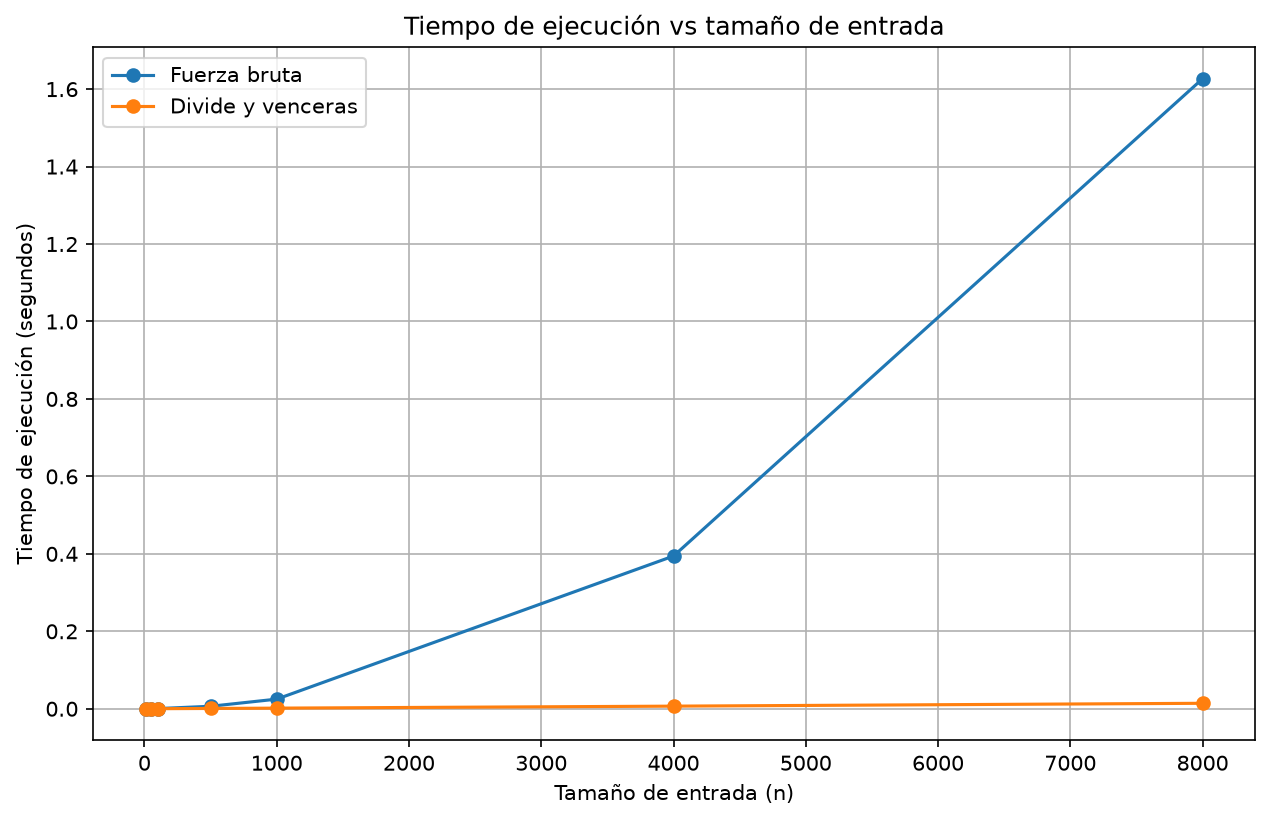
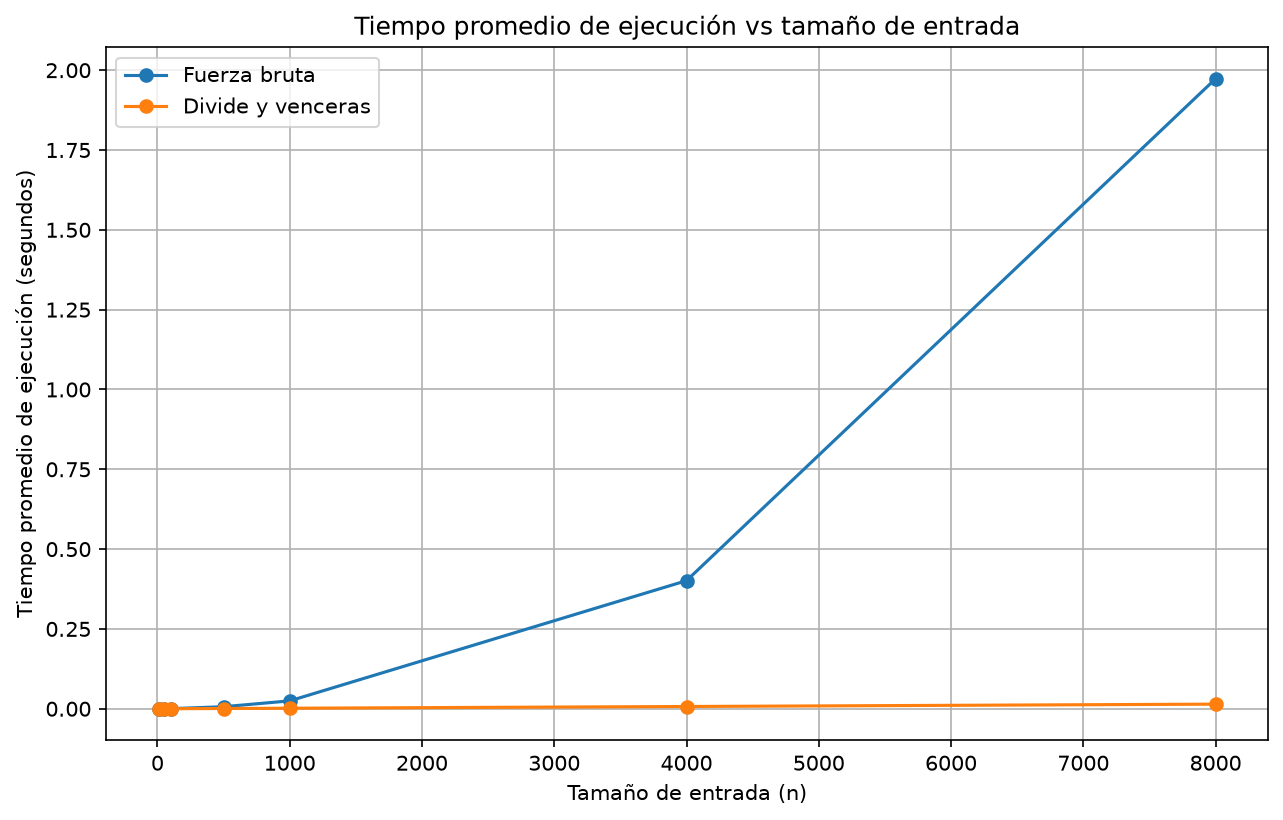
Mejora mediciones y documentacion del laboratorio 2

diff --git a/lab2-divide-y-vencer/medicion.py b/lab2-divide-y-vencer/medicion.py
@@ -1,5 +1,7 @@
 import random
 import time
+from collections.abc import Callable
+from typing import Any
 
 import matplotlib.pyplot as plt
 
@@ -8,14 +10,36 @@ from subarreglo import subarreglo_fuerza_bruta, subarreglo_maximo
 
 TAMANOS = [10, 50, 100, 500, 1000, 4000, 8000]
 SEMILLA = 42
+REPETICIONES = 5
+Resultado = tuple[int, int, float]
 
 
-def generar_datos(n: int) -> list[int]:
-    generador = random.Random(SEMILLA + n)
+def generar_datos(n: int, generador: random.Random) -> list[int]:
+    """Genera una lista de valores aleatorios para las mediciones.
+
+    Args:
+        n: Cantidad de elementos que tendrá la lista.
+        generador: Generador aleatorio inicializado con una semilla fija.
+
+    Returns:
+        Una lista de enteros entre -100 y 100.
+    """
     return [generador.randint(-100, 100) for _ in range(n)]
 
 
-def medir_tiempo(funcion, *args) -> tuple[tuple[int, int, float], float]:
+def medir_tiempo(
+    funcion: Callable[..., Resultado],
+    *args: Any
+) -> tuple[Resultado, float]:
+    """Mide el tiempo de una ejecución de un algoritmo.
+
+    Args:
+        funcion: Algoritmo que se va a medir.
+        *args: Argumentos que recibe el algoritmo.
+
+    Returns:
+        El resultado del algoritmo y el tiempo de ejecución en segundos.
+    """
     inicio = time.perf_counter()
     resultado = funcion(*args)
     fin = time.perf_counter()
@@ -23,23 +47,54 @@ def medir_tiempo(funcion, *args) -> tuple[tuple[int, int, float], float]:
     return resultado, fin - inicio
 
 
-def main():
+def medir_promedio(
+    funcion: Callable[..., Resultado],
+    repeticiones: int,
+    *args: Any
+) -> tuple[Resultado, float]:
+    """Ejecuta varias mediciones y calcula el tiempo promedio.
+
+    Args:
+        funcion: Algoritmo que se va a medir.
+        repeticiones: Número de veces que se ejecutará el algoritmo.
+        *args: Argumentos que recibe el algoritmo.
+
+    Returns:
+        El resultado del algoritmo y el tiempo promedio en segundos.
+    """
+    tiempos = []
+    resultado: Resultado | None = None
+
+    for _ in range(repeticiones):
+        resultado, tiempo = medir_tiempo(funcion, *args)
+        tiempos.append(tiempo)
+
+    assert resultado is not None
+    return resultado, sum(tiempos) / len(tiempos)
+
+
+def main() -> None:
+    """Ejecuta las mediciones y genera la gráfica comparativa."""
     tiempos_fuerza_bruta = []
     tiempos_divide_venceras = []
+    generador = random.Random(SEMILLA)
 
     print("\nRESULTADOS DE MEDICION")
+    print(f"Promedio de {REPETICIONES} ejecuciones por tamaño")
     print("-" * 70)
 
     for n in TAMANOS:
-        valores = generar_datos(n)
+        valores = generar_datos(n, generador)
 
-        resultado_fuerza, tiempo_fuerza = medir_tiempo(
+        resultado_fuerza, tiempo_fuerza = medir_promedio(
             subarreglo_fuerza_bruta,
+            REPETICIONES,
             valores
         )
 
-        resultado_divide, tiempo_divide = medir_tiempo(
+        resultado_divide, tiempo_divide = medir_promedio(
             subarreglo_maximo,
+            REPETICIONES,
             valores,
             0,
             len(valores) - 1
@@ -57,33 +112,28 @@ def main():
         )
 
     plt.figure(figsize=(10, 6))
-
     plt.plot(
         TAMANOS,
         tiempos_fuerza_bruta,
         marker="o",
         label="Fuerza bruta"
     )
-
     plt.plot(
         TAMANOS,
         tiempos_divide_venceras,
         marker="o",
         label="Divide y venceras"
     )
-
-    plt.title("Tiempo de ejecución vs tamaño de entrada")
+    plt.title("Tiempo promedio de ejecución vs tamaño de entrada")
     plt.xlabel("Tamaño de entrada (n)")
-    plt.ylabel("Tiempo de ejecución (segundos)")
+    plt.ylabel("Tiempo promedio de ejecución (segundos)")
     plt.legend()
     plt.grid(True)
-
     plt.savefig(
         "graficas/tiempo_vs_n.png",
         dpi=150,
         bbox_inches="tight"
     )
-
     plt.close()
 
     print("\nGrafica generada correctamente.")

diff --git a/lab2-divide-y-vencer/pruebas.py b/lab2-divide-y-vencer/pruebas.py
@@ -3,7 +3,8 @@ import random
 from subarreglo import subarreglo_fuerza_bruta, subarreglo_maximo
 
 
-def probar_serie_ejemplo():
+def probar_serie_ejemplo() -> None:
+    """Verifica el ejemplo principal indicado en la guía."""
     valores = [-3, 5, -2, 8, -6, 3, 9, -4]
 
     fuerza_bruta = subarreglo_fuerza_bruta(valores)
@@ -13,21 +14,24 @@ def probar_serie_ejemplo():
     assert divide_venceras[2] == 17
 
 
-def probar_un_elemento():
+def probar_un_elemento() -> None:
+    """Verifica una lista que contiene un solo elemento."""
     valores = [8]
 
     assert subarreglo_fuerza_bruta(valores)[2] == 8
     assert subarreglo_maximo(valores, 0, 0)[2] == 8
 
 
-def probar_todos_negativos():
+def probar_todos_negativos() -> None:
+    """Verifica una lista donde todos los valores son negativos."""
     valores = [-8, -3, -10, -2, -6]
 
     assert subarreglo_fuerza_bruta(valores)[2] == -2
     assert subarreglo_maximo(valores, 0, len(valores) - 1)[2] == -2
 
 
-def probar_todos_positivos():
+def probar_todos_positivos() -> None:
+    """Verifica una lista donde todos los valores son positivos."""
     valores = [2, 4, 1, 5, 3]
     suma_esperada = 15
 
@@ -38,7 +42,8 @@ def probar_todos_positivos():
     )
 
 
-def probar_caso_cruzado():
+def probar_caso_cruzado() -> None:
+    """Verifica un máximo que cruza el punto medio de la lista."""
     valores = [-4, 6, 3, -2, 5, -8]
 
     fuerza_bruta = subarreglo_fuerza_bruta(valores)
@@ -48,7 +53,8 @@ def probar_caso_cruzado():
     assert divide_venceras[2] == 12
 
 
-def probar_listas_aleatorias():
+def probar_listas_aleatorias() -> None:
+    """Compara ambos algoritmos usando 20 listas aleatorias."""
     random.seed(42)
 
     for _ in range(20):
@@ -63,7 +69,8 @@ def probar_listas_aleatorias():
         assert fuerza_bruta[2] == divide_venceras[2]
 
 
-def main():
+def main() -> None:
+    """Ejecuta todas las pruebas del laboratorio."""
     probar_serie_ejemplo()
     probar_un_elemento()
     probar_todos_negativos()

diff --git a/lab2-divide-y-vencer/README.md b/lab2-divide-y-vencer/README.md
@@ -6,10 +6,24 @@
 
 El laboratorio está en la carpeta `lab2-divide-y-vencer`.
 
-Primero se activa el entorno virtual desde la raíz del repositorio:
+Primero se activa el entorno virtual desde la raíz del repositorio.
+
+En Windows usando Git Bash:
 
 ```bash
 source venv/Scripts/activate
+```
+
+En Windows usando PowerShell:
+
+```powershell
+.\venv\Scripts\Activate.ps1
+```
+
+En macOS o Linux:
+
+```bash
+source venv/bin/activate
 ```
 
 Después se entra a la carpeta:
@@ -60,19 +74,19 @@ Todas las pruebas pasaron correctamente.
 
 El código de esta parte está en [`medicion.py`](medicion.py).
 
-Se probaron siete tamaños: **10, 50, 100, 500, 1000, 4000 y 8000** elementos. Los valores se generaron entre -100 y 100 con una semilla fija, usando la misma lista para los dos algoritmos en cada tamaño.
+Se probaron siete tamaños: **10, 50, 100, 500, 1000, 4000 y 8000** elementos. Los valores se generaron entre -100 y 100 usando un generador inicializado con la semilla fija **42**. Para cada tamaño se utilizó exactamente la misma lista en los dos algoritmos.
 
-El tiempo se tomó con `time.perf_counter()` solamente durante la ejecución de cada algoritmo. No se incluyó la generación de los datos. Hice una medición por tamaño y también comprobé que las sumas de ambos algoritmos coincidieran.
+El tiempo se tomó con `time.perf_counter()` solamente durante la ejecución de cada algoritmo. No se incluyó la generación de los datos. Para reducir el efecto de variaciones de una sola ejecución, cada algoritmo se ejecutó **5 veces por tamaño** y se utilizó el tiempo promedio. También comprobé que las sumas obtenidas por ambos algoritmos coincidieran.
 
 | Tamaño | Fuerza bruta (s) | Divide y vencerás (s) |
 |---:|---:|---:|
-| 10 | 0,000013 | 0,000023 |
-| 50 | 0,000075 | 0,000079 |
-| 100 | 0,000394 | 0,000161 |
-| 500 | 0,006411 | 0,000760 |
-| 1.000 | 0,024806 | 0,001575 |
-| 4.000 | 0,394333 | 0,006711 |
-| 8.000 | 1,626822 | 0,014091 |
+| 10 | 0,000006 | 0,000012 |
+| 50 | 0,000068 | 0,000065 |
+| 100 | 0,000238 | 0,000138 |
+| 500 | 0,006404 | 0,000765 |
+| 1.000 | 0,024652 | 0,001598 |
+| 4.000 | 0,401170 | 0,007020 |
+| 8.000 | 1,973235 | 0,014414 |
 
 ![Tiempo de ejecución de ambos algoritmos](graficas/tiempo_vs_n.png)
 
@@ -98,17 +112,17 @@ En fuerza bruta se usan dos ciclos: uno escoge el inicio del tramo y el otro rec
 
 En la gráfica se nota que fuerza bruta empieza a crecer mucho más rápido. Divide y vencerás también aumenta su tiempo, pero la diferencia entre los dos se vuelve cada vez mayor.
 
-Por ejemplo, al pasar de **4.000 a 8.000 elementos**, fuerza bruta pasó de **0,394333** a **1,626822 segundos**. Eso significa que tardó unas **4,13 veces** más.
+Por ejemplo, al pasar de **4.000 a 8.000 elementos**, fuerza bruta pasó de **0,401170** a **1,973235 segundos**. Eso significa que tardó unas **4,92 veces** más.
 
-En divide y vencerás se pasó de **0,006711** a **0,014091 segundos**, aproximadamente **2,10 veces** más.
+En divide y vencerás se pasó de **0,007020** a **0,014414 segundos**, aproximadamente **2,05 veces** más.
 
-Esto se parece a lo esperado: con `Θ(n²)` duplicar el tamaño puede multiplicar el trabajo por cuatro, mientras que con `Θ(n log n)` el aumento es un poco mayor al doble.
+Esto mantiene la tendencia esperada: fuerza bruta crece mucho más rápido por su `Θ(n²)`, mientras que divide y vencerás queda cerca de duplicar su tiempo, como se espera de `Θ(n log n)`. Los valores no tienen que dar exactamente el factor teórico porque son tiempos medidos y pueden variar según la ejecución y el equipo.
 
 ## 3.3 Tamaños pequeños
 
-En mis pruebas divide y vencerás empezó a ganar desde los **100 elementos**. Con 10 elementos fuerza bruta fue un poco más rápida y con 50 los tiempos fueron casi iguales.
+En mis pruebas divide y vencerás empezó a mostrar ventaja desde los **50 elementos**, aunque en ese tamaño los tiempos todavía fueron prácticamente iguales: **0,000068 segundos** para fuerza bruta y **0,000065 segundos** para divide y vencerás.
 
-Esto puede pasar porque dividir la lista y hacer llamadas recursivas también tiene un costo. En listas pequeñas esa diferencia todavía no se aprovecha tanto, pero cuando aumenta la cantidad de datos sí se nota.
+Con 10 elementos fuerza bruta fue más rápida. Esto puede pasar porque dividir la lista y hacer llamadas recursivas también tiene un costo. En listas pequeñas ese trabajo adicional puede pesar más que la diferencia de complejidad, pero cuando aumenta la cantidad de datos la ventaja de divide y vencerás se hace mucho más clara.
 
 ## 3.4 ¿Siempre conviene dividir?
 
@@ -124,12 +138,12 @@ El costo de combinar es constante porque solamente se comparan dos valores. Ento
 
 ## 3.5 Recomendación para la cooperativa
 
-Para la cooperativa escogería **divide y vencerás** porque el equipo también quiere analizar series mucho más grandes. Con **8.000 elementos**, fuerza bruta tardó **1,626822 segundos**, mientras que divide y vencerás necesitó **0,014091 segundos**.
+Para la cooperativa escogería **divide y vencerás** porque el equipo también quiere analizar series mucho más grandes. Con **8.000 elementos**, fuerza bruta tardó en promedio **1,973235 segundos**, mientras que divide y vencerás necesitó **0,014414 segundos**.
 
 Para estimar qué pasaría con **1.000.000 de registros** tomé esos tiempos como referencia y apliqué el crecimiento de cada algoritmo. No es una medición real con un millón de datos.
 
-El tamaño aumenta **125 veces**. En fuerza bruta, por su crecimiento cuadrático, el factor sería `125²`. Eso daría aproximadamente **25.419 segundos**, es decir, **7,1 horas**.
+El tamaño aumenta **125 veces**. En fuerza bruta, por su crecimiento cuadrático, el factor sería `125²`. Eso daría aproximadamente **30.832 segundos**, es decir, **8,6 horas**.
 
-En divide y vencerás utilicé la proporción entre `1.000.000 log₂(1.000.000)` y `8.000 log₂(8.000)`. Con esa aproximación el tiempo sería de unos **2,7 segundos**.
+En divide y vencerás utilicé la proporción entre `1.000.000 log₂(1.000.000)` y `8.000 log₂(8.000)`. Con esa aproximación el tiempo sería de unos **2,77 segundos**.
 
 Por eso recomendaría divide y vencerás para este caso. Aunque con pocos datos la diferencia no es tan grande, las mediciones muestran que con listas más extensas fuerza bruta deja de ser una buena opción. Antes de usarlo en un sistema real también haría una prueba con un volumen cercano al esperado.
